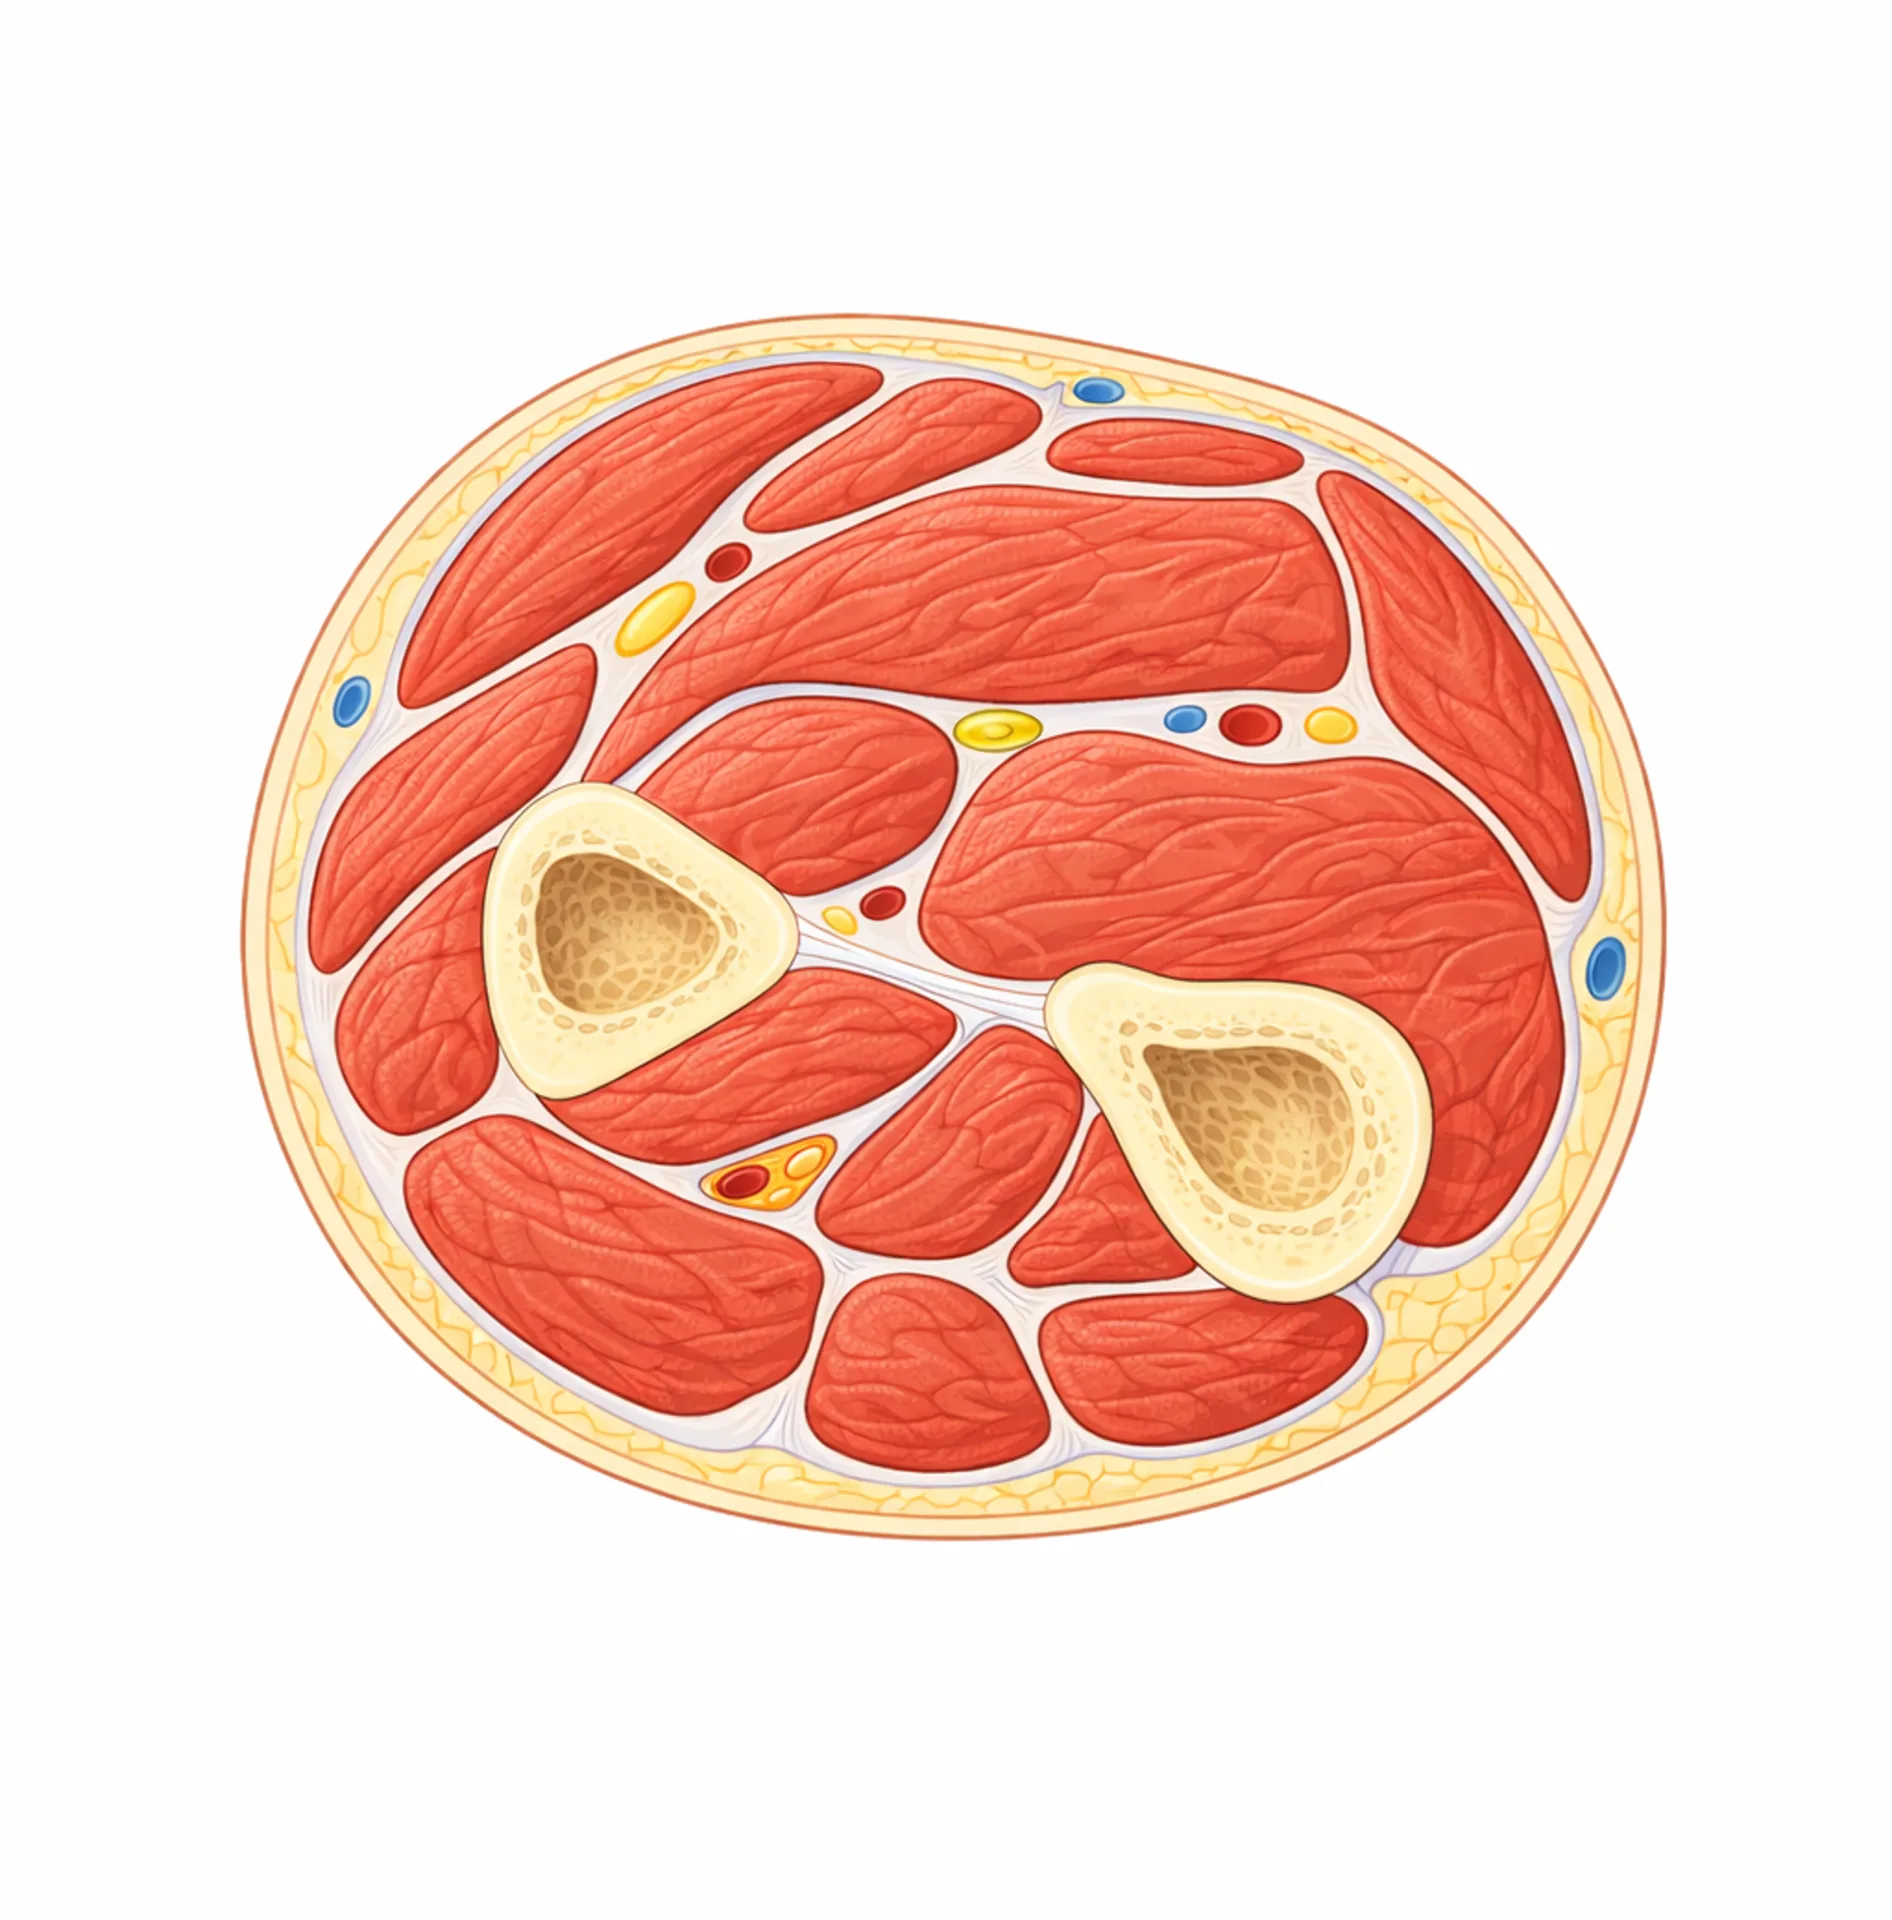
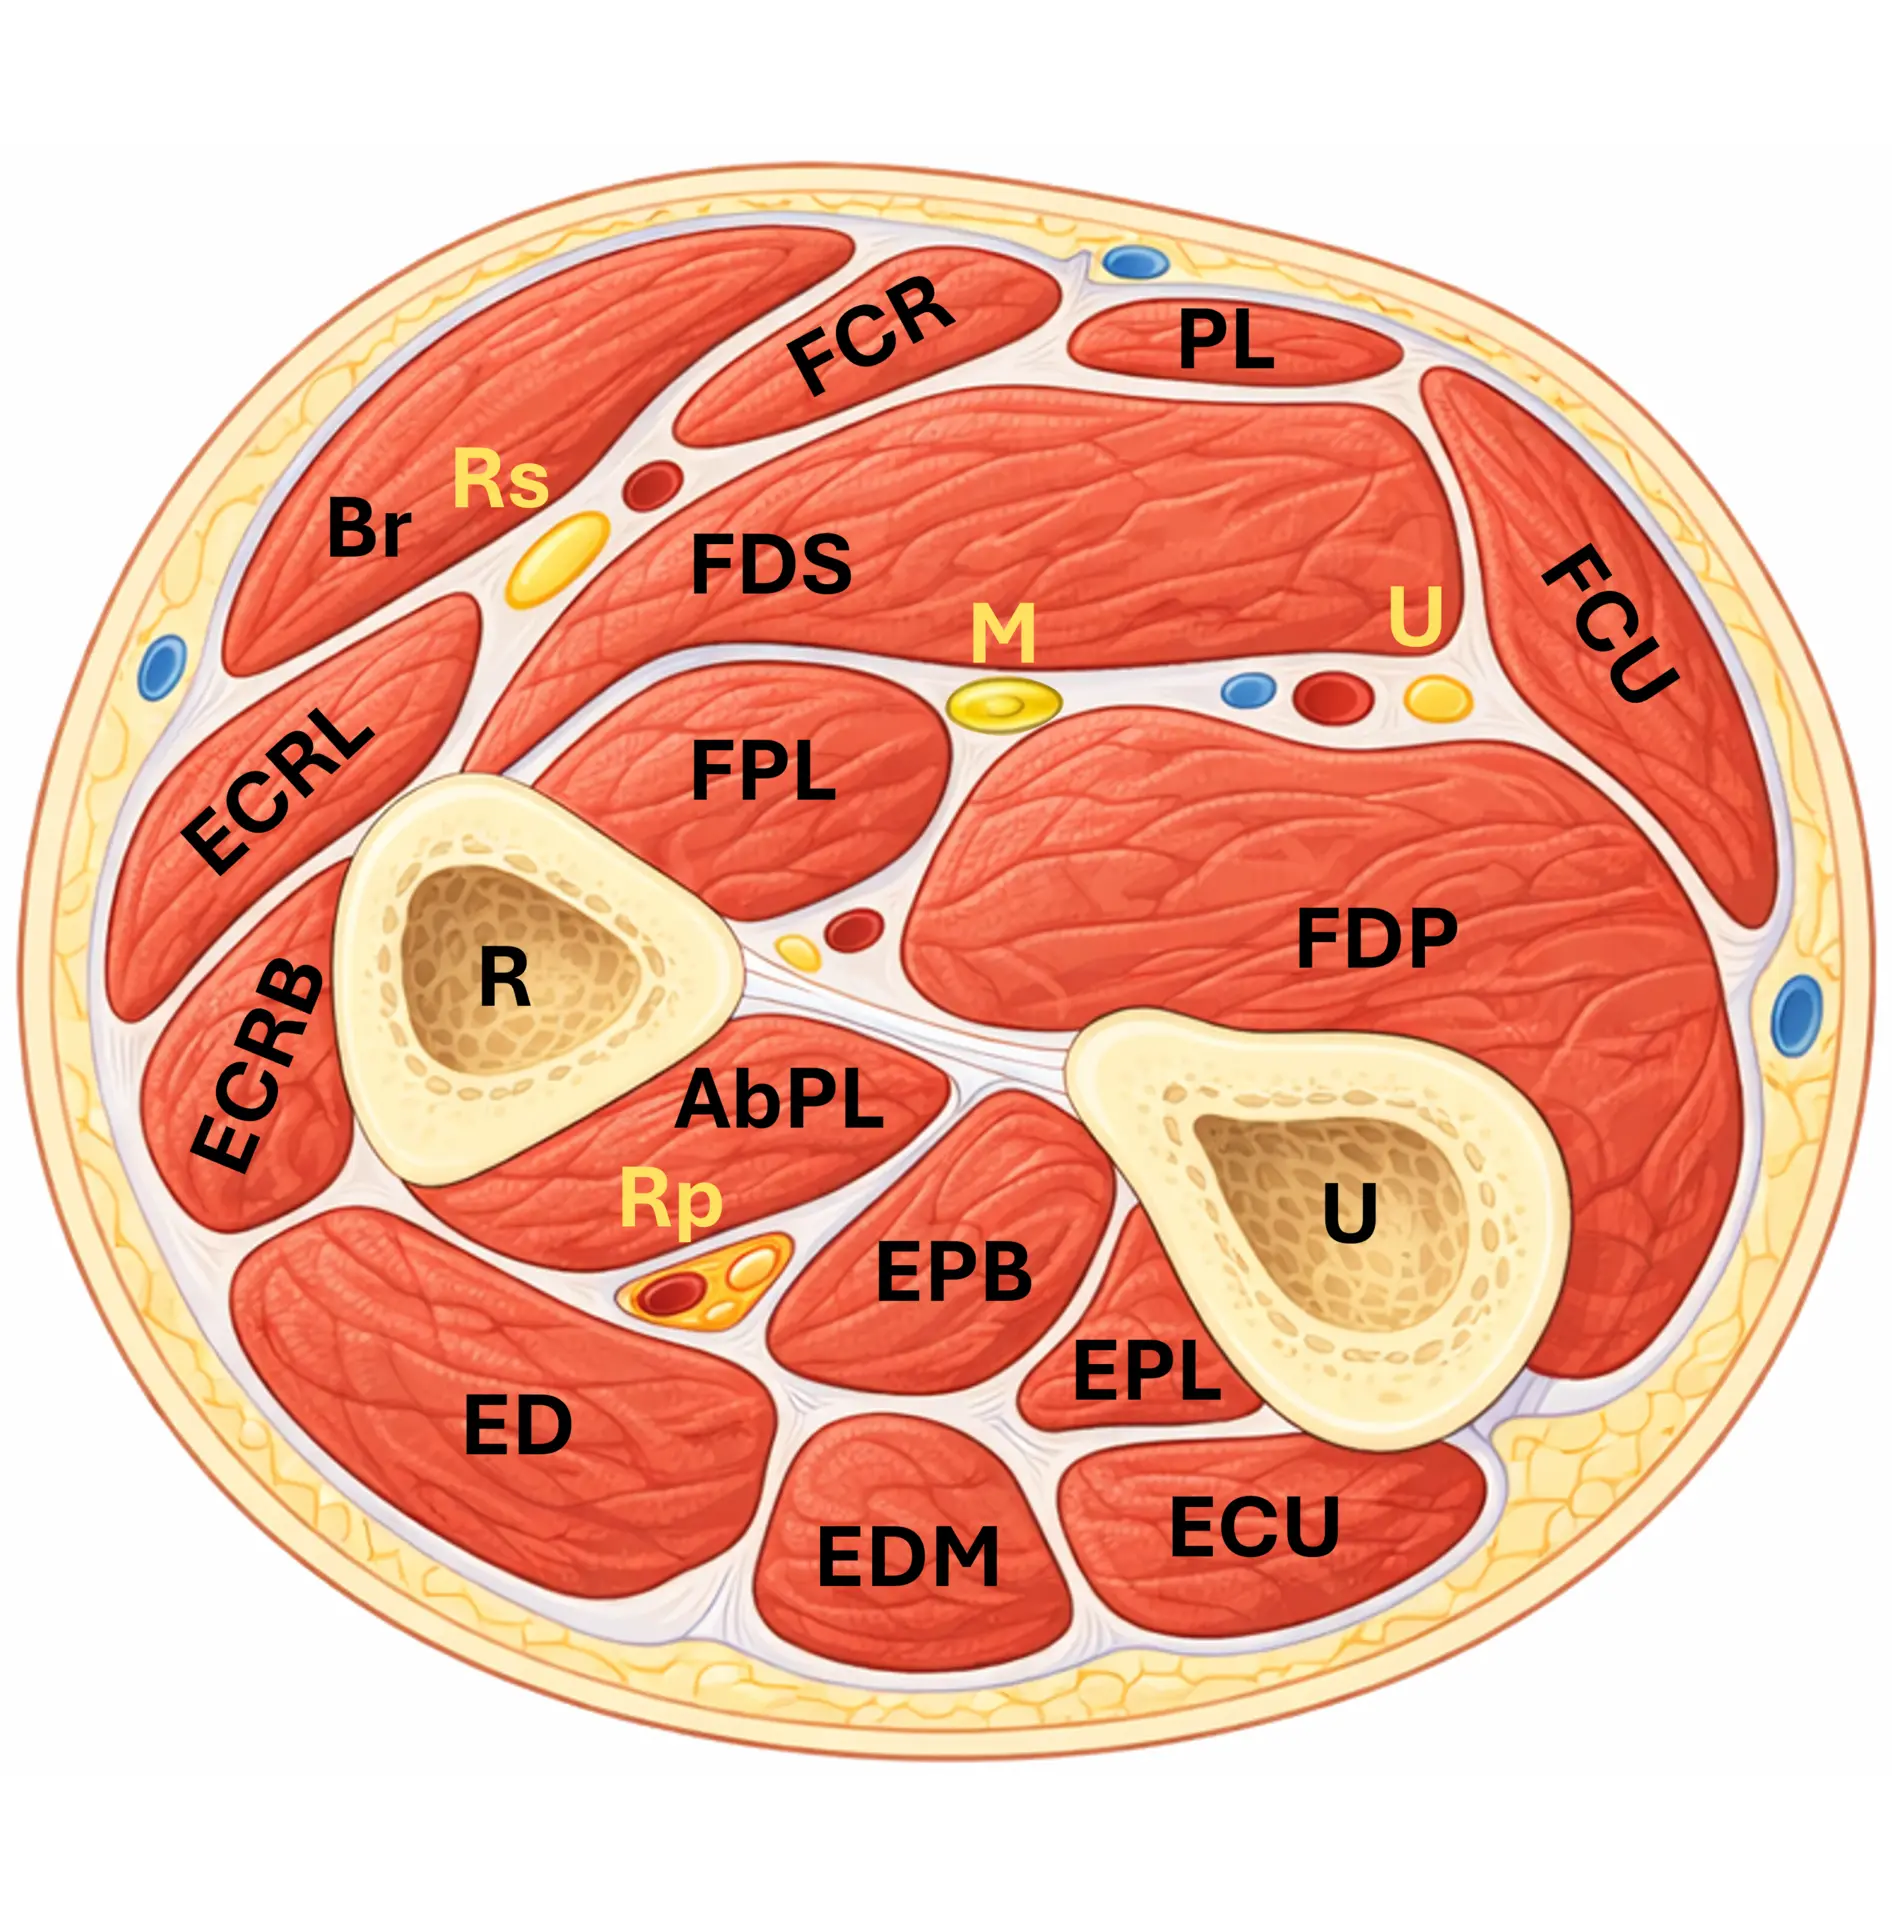
Update forearm image and add abbreviations

diff --git a/src/pages/ContentPage.tsx b/src/pages/ContentPage.tsx
@@ -379,6 +379,57 @@ const nerveAnatomyDescriptions: Record<string, Record<string, NerveAnatomyDescri
   }
 };
 
+const nerveAnatomyAbbreviations: Record<string, { cs: string[]; en: string[] }> = {
+  "4_forearm": {
+    cs: [
+      "Br – m. brachioradialis",
+      "ECRL – m. extensor carpi radialis longus",
+      "ECRB – m. extensor carpi radialis brevis",
+      "ED – m. extensor digitorum",
+      "EDM – m. extensor digiti minimi",
+      "ECU – m. extensor carpi ulnaris",
+      "AbPL – m. abductor pollicis longus",
+      "EPB – m. extensor pollicis brevis",
+      "EPL – m. extensor pollicis longus",
+      "FCR – m. flexor carpi radialis",
+      "PL – m. palmaris longus",
+      "FDS – m. flexor digitorum superficialis",
+      "FPL – m. flexor pollicis longus",
+      "FDP – m. flexor digitorum profundus",
+      "FCU – m. flexor carpi ulnaris",
+      "M – n. medianus",
+      "U (nerv) – n. ulnaris",
+      "Rs – r. superficialis n. radialis",
+      "Rp – r. profundus n. radialis (n. interosseus posterior)",
+      "R – radius",
+      "U (kost) – ulna"
+    ],
+    en: [
+      "Br – brachioradialis muscle",
+      "ECRL – extensor carpi radialis longus",
+      "ECRB – extensor carpi radialis brevis",
+      "ED – extensor digitorum",
+      "EDM – extensor digiti minimi",
+      "ECU – extensor carpi ulnaris",
+      "AbPL – abductor pollicis longus",
+      "EPB – extensor pollicis brevis",
+      "EPL – extensor pollicis longus",
+      "FCR – flexor carpi radialis",
+      "PL – palmaris longus",
+      "FDS – flexor digitorum superficialis",
+      "FPL – flexor pollicis longus",
+      "FDP – flexor digitorum profundus",
+      "FCU – flexor carpi ulnaris",
+      "M – median nerve",
+      "U (nerve) – ulnar nerve",
+      "Rs – superficial branch of the radial nerve",
+      "Rp – deep branch of the radial nerve (posterior interosseous nerve)",
+      "R – radius",
+      "U (bone) – ulna"
+    ]
+  }
+};
+
 const jointProtocolExtraBullets: Record<string, Record<string, string[]>> = {
   loket: {
     "01_01": [
@@ -1254,6 +1305,16 @@ export default function ContentPage({ path }: ContentPageProps) {
                   wrapClassName={styles.shoulderUltrasoundImageWrap}
                   enableMobileZoom
                 />
+                {nerveAnatomyAbbreviations[item.key] ? (
+                  <div className={styles.abbrevBlock}>
+                    <h4>{lang === "cs" ? "Zkratky na obrázku" : "Abbreviations in the image"}</h4>
+                    <ul className={styles.compactList}>
+                      {nerveAnatomyAbbreviations[item.key][lang].map((line) => (
+                        <li key={line}>{line}</li>
+                      ))}
+                    </ul>
+                  </div>
+                ) : null}
                 <div className={styles.articleBody}>
                   <h3>{item.title[lang]}</h3>
                   {nerveAnatomyCopy?.[item.key] ? <p>{nerveAnatomyCopy[item.key][lang]}</p> : null}

diff --git a/src/pages/SharedPages.module.css b/src/pages/SharedPages.module.css
@@ -125,6 +125,17 @@
   gap: 0.25rem;
 }
 
+.abbrevBlock {
+  display: grid;
+  gap: 0.35rem;
+  padding: 0.6rem 0.75rem 0.2rem;
+}
+
+.abbrevBlock h4 {
+  margin: 0;
+  font-size: 0.95rem;
+}
+
 .inlineImageWrap {
   width: 100%;
   height: 100%;
